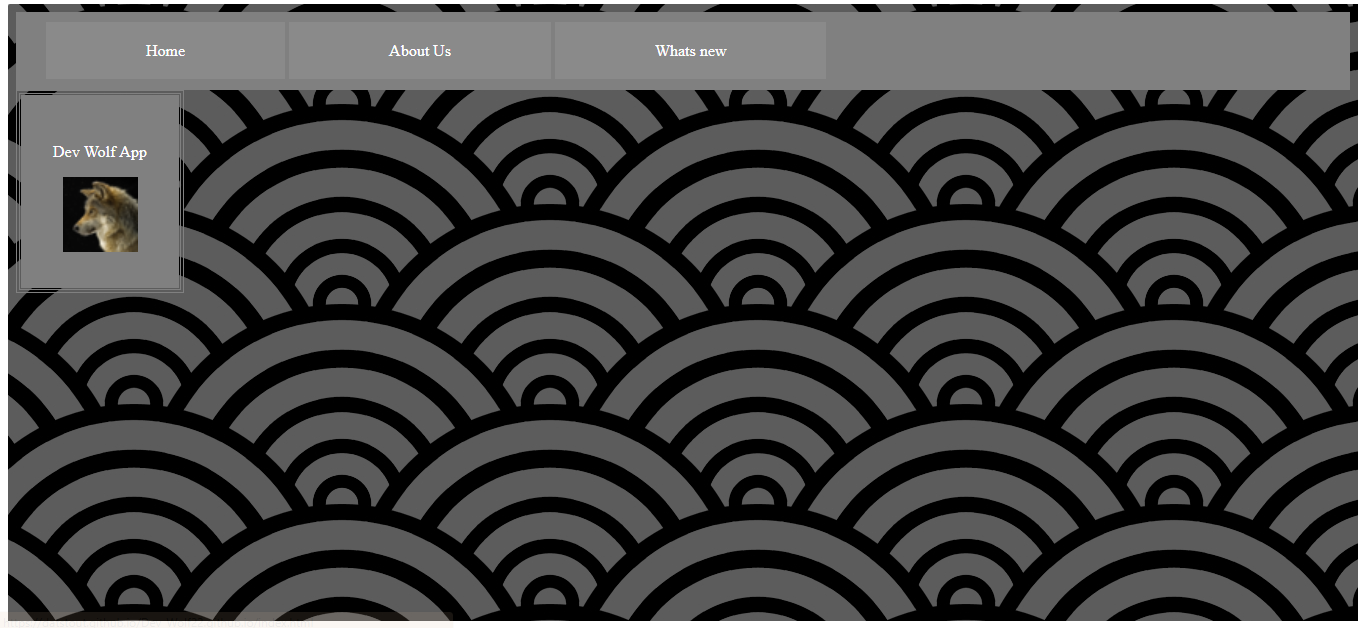
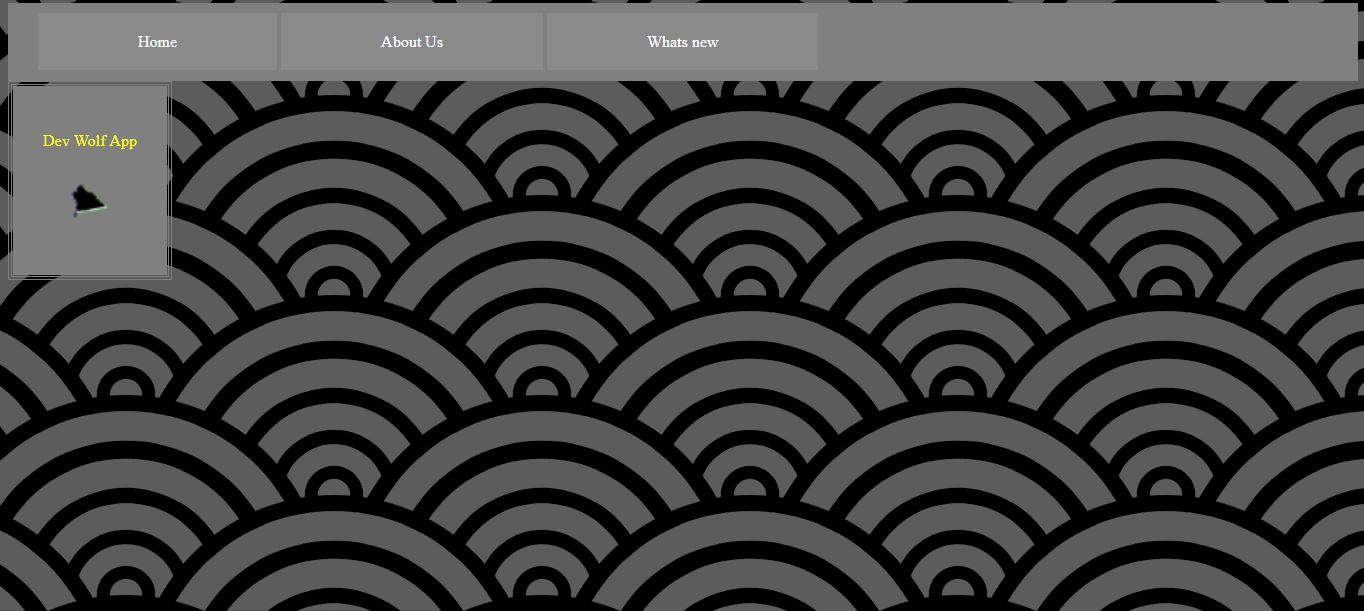
addin stuff

diff --git a/index.html b/index.html
@@ -13,10 +13,8 @@
     <a style="text-decoration:none" id="tabs" href="Whats New.html">Whats new</a> 
 </nav>
 <center>
+        <img src="images/Logo.png" width="350" height="425">
         <p id="WhiteText">Welcome to the Next gen in school gaming</p><br>
-        <p id="colored">YOUR LOGO COULD GO HERE</p><br>
-        <p id="WhiteText">Were having a logo competion for the logo to go on this page submit your logo by emailing it to me then well vote on the best</p><br>
-        <p id="WhiteText"> It must have to do with the name Dev Wolf22</p>
 </center>
 </body>
 </html>
